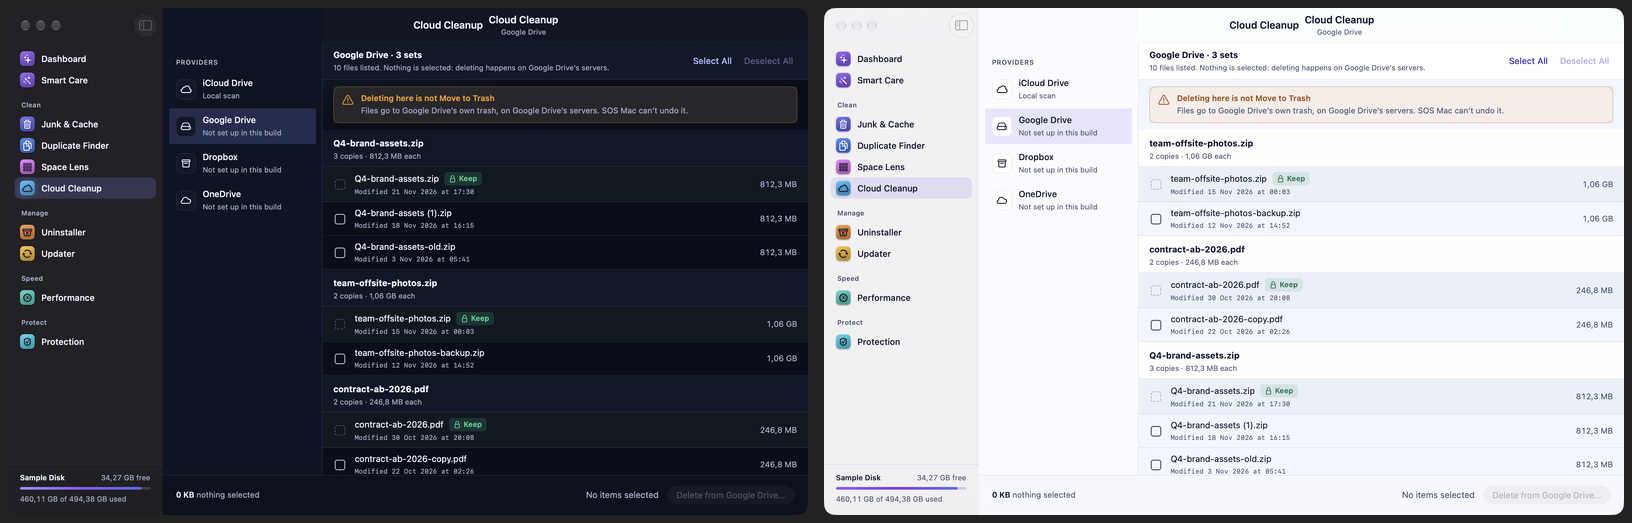
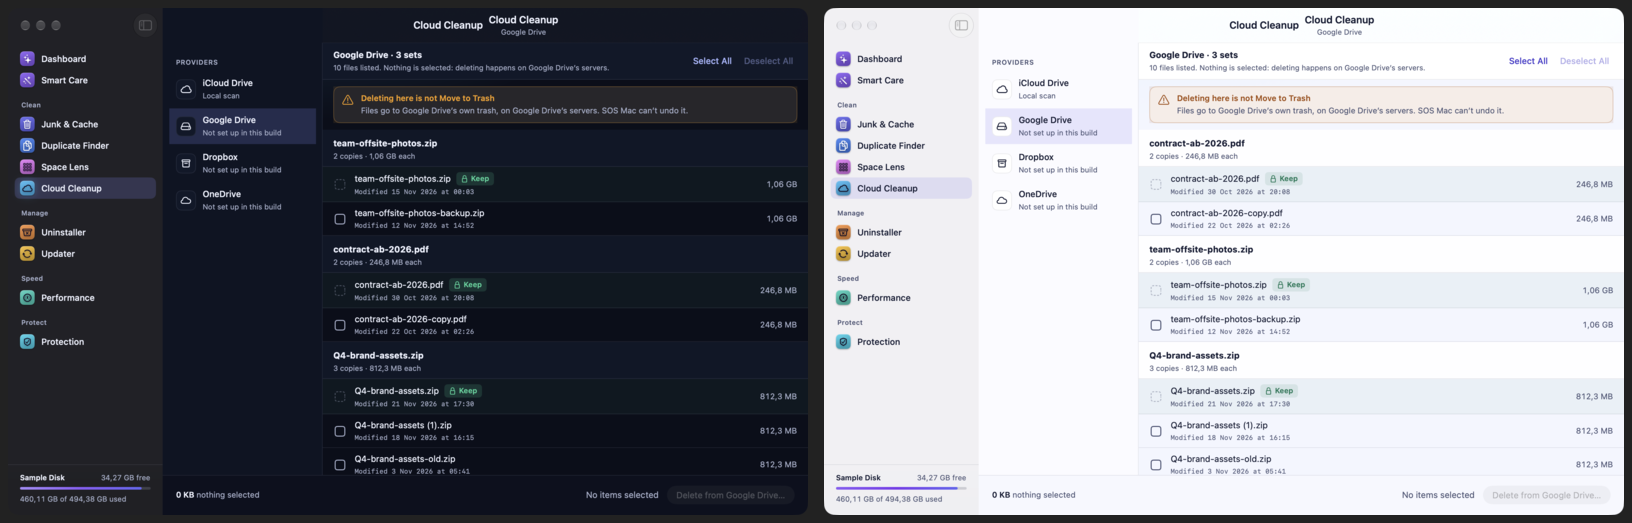
fix(cloud): danger API delete CTA, honest partial-failure bytes, state-dependent copy
Review rework (blocking + four should-fixes):
- The API providers' ModuleIdentity now sets isReviewCTADanger: true, so
  "Delete from Google Drive…" renders .danger (spec §5.6/Appendix A);
  iCloud Drive's "Move to Trash…" stays prominent. The identity moved to
  an internal static CloudCleanupView.frameIdentity(for:) the tests pin.
- .done(movedBytes:) counts only the provider-confirmed files — a partial
  delete no longer stores the attempted bytes (F4/S6).
- The API review head names the real selection ("N copies selected")
  instead of a permanent "Nothing is selected".
- API cleaning copy names the provider ("Deleting from Google Drive…")
  instead of the shared "Moving to Trash…" fallback; no invented counts.
- Blank line at EOF removed (git diff --check clean).

Tests: frame-identity danger rule + partial API delete (confirmed bytes,
failed rows, group recompute) — SOSMacTests 134/134; CleanCore 115/115.
Gallery re-captured (12 states x dark/light, fixtures only).

diff --git a/App/Features/CloudCleanup/CloudCleanupView.swift b/App/Features/CloudCleanup/CloudCleanupView.swift
@@ -16,6 +16,26 @@ struct CloudCleanupView: View {
     @Environment(ModuleStore.self) private var store
     private var viewModel: CloudCleanupViewModel { store.cloudCleanup }
 
+    /// The frame toolbar's identity per provider (spec §5.6 + Appendix A): an
+    /// API provider's review CTA ("Delete from Google Drive…") renders the
+    /// **danger** style — the delete happens on the provider's servers and
+    /// cannot be undone — while iCloud Drive's local "Move to Trash…" keeps
+    /// the standard prominent style. Internal static so the unit tests pin
+    /// the rule (the screen's `frameModule` below reads it).
+    static func frameIdentity(for provider: CloudCleanupViewModel.Provider) -> ModuleIdentity {
+        switch provider {
+        case .iCloudDrive:
+            return ModuleIdentity(module: .cloudCleanup)
+        default:
+            return ModuleIdentity(name: "Cloud Cleanup",
+                                  hue: Theme.Hue.cloud,
+                                  symbol: "icloud",
+                                  startActionTitle: "Scan",
+                                  reviewActionTitle: "Delete from \(provider.rawValue)…",
+                                  isReviewCTADanger: true)
+        }
+    }
+
     var body: some View {
         CloudCleanupScreen(viewModel: viewModel)
     }
@@ -41,16 +61,7 @@ private struct CloudCleanupScreen: View {
     /// CTA ("Delete from Google Drive…"), iCloud Drive the standard
     /// "Move to Trash…".
     private var frameModule: ModuleIdentity {
-        switch viewModel.selectedProvider {
-        case .iCloudDrive:
-            return ModuleIdentity(module: .cloudCleanup)
-        default:
-            return ModuleIdentity(name: "Cloud Cleanup",
-                                  hue: Theme.Hue.cloud,
-                                  symbol: "icloud",
-                                  startActionTitle: "Scan",
-                                  reviewActionTitle: "Delete from \(viewModel.selectedProvider.rawValue)…")
-        }
+        CloudCleanupView.frameIdentity(for: viewModel.selectedProvider)
     }
 
     /// The eyebrow/orb identity of the state views: the provider's own name
@@ -420,9 +431,14 @@ private struct CloudCleanupScreen: View {
     private func apiInlineHead(_ provider: CloudCleanupViewModel.Provider) -> InlineListHead {
         let extras = viewModel.apiSets.flatMap(\.extraItems)
         let selected = extras.filter { (viewModel.selectedPaths[provider] ?? []).contains($0.id) }
+        // Honest state line: the head names the real selection, not a
+        // permanent "nothing is selected" (the list is the select surface).
+        let selectionLine = selected.isEmpty
+            ? "Nothing is selected"
+            : "\(selected.count.formatted()) \(selected.count == 1 ? "copy" : "copies") selected"
         return InlineListHead(
             title: "\(provider.rawValue) · \(viewModel.apiSets.count.formatted()) \(viewModel.apiSets.count == 1 ? "set" : "sets")",
-            sub: "\(viewModel.listedFileCount.formatted()) files listed. Nothing is selected: deleting happens on \(provider.rawValue)’s servers.",
+            sub: "\(viewModel.listedFileCount.formatted()) files listed. \(selectionLine): deleting happens on \(provider.rawValue)’s servers.",
             isSelectAllEnabled: selected.count < extras.count,
             isDeselectAllEnabled: !selected.isEmpty)
     }
@@ -493,7 +509,7 @@ private struct CloudCleanupScreen: View {
             ? (progress.map { "Moving \($0.attemptedCount) of \($0.totalCount) \($0.totalCount == 1 ? "copy" : "copies") to the Trash…" }
                ?? "Moving copies to the Trash…")
             : (progress.map { "Deleting \($0.attemptedCount) of \($0.totalCount) \($0.totalCount == 1 ? "file" : "files") from \(provider.rawValue)…" }
-               ?? "Deleting files…")
+               ?? "Deleting from \(provider.rawValue)…")
         return ScanningView(
             module: displayModule,
             title: title,
@@ -702,10 +718,15 @@ private struct CloudCleanupScreen: View {
         case .review:
             return nil
         case .cleaning:
-            guard let progress = viewModel.cleaningProgress else { return nil }
-            return provider == .iCloudDrive
-                ? "Moving \(progress.attemptedCount) of \(progress.totalCount)…"
-                : "Deleting \(progress.attemptedCount) of \(progress.totalCount)…"
+            if provider == .iCloudDrive {
+                guard let progress = viewModel.cleaningProgress else { return nil }
+                return "Moving \(progress.attemptedCount) of \(progress.totalCount)…"
+            }
+            // A server-side delete is one call — no per-file count exists, so
+            // the toolbar names the operation instead of falling back to the
+            // shared "Moving to Trash…" default (fail closed, no invented
+            // numbers).
+            return "Deleting from \(provider.rawValue)…"
         case .empty:
             return nil
         }
@@ -760,4 +781,3 @@ private struct CloudCleanupScreen: View {
         let rows: [ReviewItemRow.Model]
     }
 }
-

diff --git a/SOSMacTests/CloudCleanupViewModelTests.swift b/SOSMacTests/CloudCleanupViewModelTests.swift
@@ -1,9 +1,10 @@
 import Foundation
 import Testing
-// @testable: the successful-delete tests construct `CloudDeleteResult`, whose
-// memberwise initializer is internal (CleanCore's own providers build the rows
-// in-module). Debug builds of the local package keep testability on; if that
-// ever changes, these tests fall back to the throwing-fake design.
+// @testable: the delete tests construct `CloudDeleteResult` and its
+// `CloudDeleteFailure` rows, whose memberwise initializers are internal
+// (CleanCore's own providers build the rows in-module). Debug builds of the
+// local package keep testability on; if that ever changes, the partial-
+// failure test falls back to the whole-call error design.
 @testable import CleanCore
 @testable import SOSMac
 
@@ -26,9 +27,9 @@ struct CloudCleanupViewModelTests {
 
     /// A fake API provider: the file list and the delete result are fixed by
     /// the test; every delete call is recorded. Nothing leaves the process.
-    /// `CloudDeleteFailure` has no public initializer (CleanCore builds rows
-    /// internally), so partial per-file failures cannot be fabricated here —
-    /// the failure tests cover the whole-call error and the iCloud leg.
+    /// `CloudDeleteResult`/`CloudDeleteFailure` have no public initializer
+    /// (CleanCore builds rows in-module); the partial-failure test builds
+    /// them through `@testable` (the file-head comment).
     private final class FakeCloudProvider: CloudProvider, @unchecked Sendable {
         let providerName: String
         var listFilesResult: CloudFilePage
@@ -373,6 +374,58 @@ struct CloudCleanupViewModelTests {
         #expect(failedCount == 2)
         #expect(viewModel.apiDeleteError[.oneDrive] == "Request failed (HTTP 503).")
         #expect(viewModel.apiSets.count == 3, "nothing was deleted, so every group stays")
+    }
+
+    @Test("a partial API delete reports only the confirmed bytes and recomputes the groups (S6/F4)")
+    func apiPartialDeleteFailure() async throws {
+        // The provider confirms drv-002 and drv-005 and fails drv-003.
+        let provider = FakeCloudProvider(
+            providerName: "Google Drive",
+            deleteResult: CloudDeleteResult(
+                succeededIDs: ["drv-002", "drv-005"],
+                failed: [CloudDeleteFailure(id: "drv-003", reason: "Request failed (HTTP 429).")]))
+        let viewModel = Self.makeViewModel(apiProviders: [.googleDrive: provider])
+        viewModel.loadFixtureAPIResults(.googleDrive, files: UITestFixtures.driveFiles)
+
+        // Three extras across two groups: the brand pair and the offsite backup.
+        viewModel.toggleSelection(key: "drv-002")
+        viewModel.toggleSelection(key: "drv-003")
+        viewModel.toggleSelection(key: "drv-005")
+        let attemptedBytes = viewModel.selectedFiles.reduce(0) { $0 + $1.size }
+        #expect(attemptedBytes == 2_687_050_000, "812.3 MB × 2 + 1_062.45 MB — the attempted total")
+
+        #expect(await viewModel.deleteFromAPI(.googleDrive))
+        // Done counts the **confirmed** bytes only — never the attempted total.
+        #expect(await waitForPhase(viewModel,
+                                   .done(movedBytes: 1_874_750_000, movedCount: 2, failedCount: 1),
+                                   for: .googleDrive))
+        #expect(viewModel.apiDeleteError[.googleDrive] == nil)
+        #expect(viewModel.apiDeleteFailures[.googleDrive]?.map(\.id) == ["drv-003"])
+
+        // The groups recompute from the files that remain: the offsite group
+        // is down to its keep and disappears; brand survives (its second
+        // extra failed) with the contract group untouched.
+        #expect(viewModel.apiSets.count == 2)
+        #expect(viewModel.apiSets.allSatisfy { $0.id != "fixture-hash-offsite" })
+        // The failed copy stays selected and in its set — nothing is invented.
+        #expect(viewModel.selectedFiles.map(\.id) == ["drv-003"])
+    }
+
+    // MARK: - Frame identity (§5.6/Appendix A: the danger CTA rule)
+
+    @Test("an API provider's review CTA renders danger; iCloud Drive's stays prominent (§5.6/Appendix A)")
+    func frameIdentityDangerRule() {
+        // The three server-side providers carry the danger style and the
+        // provider-named CTA label.
+        for provider in [CloudCleanupViewModel.Provider.googleDrive, .dropbox, .oneDrive] {
+            let identity = CloudCleanupView.frameIdentity(for: provider)
+            #expect(identity.isReviewCTADanger, "\(provider.rawValue)'s delete CTA renders .danger")
+            #expect(identity.reviewActionTitle == "Delete from \(provider.rawValue)…")
+        }
+        // iCloud Drive's local Trash path keeps the shared prominent style.
+        let iCloudIdentity = CloudCleanupView.frameIdentity(for: .iCloudDrive)
+        #expect(!iCloudIdentity.isReviewCTADanger)
+        #expect(iCloudIdentity.reviewActionTitle == "Move to Trash…")
     }
 
     // MARK: - API scan with a fake provider (the day-OAuth-lands path)

diff --git a/App/Features/CloudCleanup/CloudCleanupViewModel.swift b/App/Features/CloudCleanup/CloudCleanupViewModel.swift
@@ -740,7 +740,6 @@ final class CloudCleanupViewModel {
         guard !toDelete.isEmpty, let apiProvider = apiProviders[provider] else { return false }
 
         setPhase(.cleaning(selectedCount: toDelete.count), for: provider)
-        let deletedBytes = toDelete.reduce(0) { $0 + $1.size }
         let ids = toDelete.map(\.id)
 
         let result: CloudDeleteResult
@@ -765,6 +764,9 @@ final class CloudCleanupViewModel {
         selection.formIntersection(Set(remainingFiles.map(\.id)))
         selectedPaths[provider] = selection
         apiDeleteFailures[provider] = result.failed
+        // F4/S6: Done counts only what the provider **confirmed** — a
+        // partial failure must not store the attempted bytes as deleted.
+        let deletedBytes = toDelete.filter { succeeded.contains($0.id) }.reduce(0) { $0 + $1.size }
         setPhase(.done(movedBytes: deletedBytes,
                        movedCount: result.succeededIDs.count,
                        failedCount: result.failed.count),

diff --git a/docs/redesign/galleries/pr-11/README.md b/docs/redesign/galleries/pr-11/README.md
@@ -109,7 +109,7 @@ states (settled).
 ## Tests run
 - [x] xcodebuild build -scheme SOSMac -configuration Debug — 0 errors
 - [x] cd Packages/CleanCore && swift test — 115/115
-- [x] xcodebuild test -only-testing:SOSMacTests — 132/132 (117 base + 15 new)
+- [x] xcodebuild test -only-testing:SOSMacTests — 134/134 (117 base + 17 new)
 - [x] Scripts/ui-snapshots.sh -p pr-11 (this gallery, 12 states × dark/light)
 
 ## Differences from the prototype, and why
